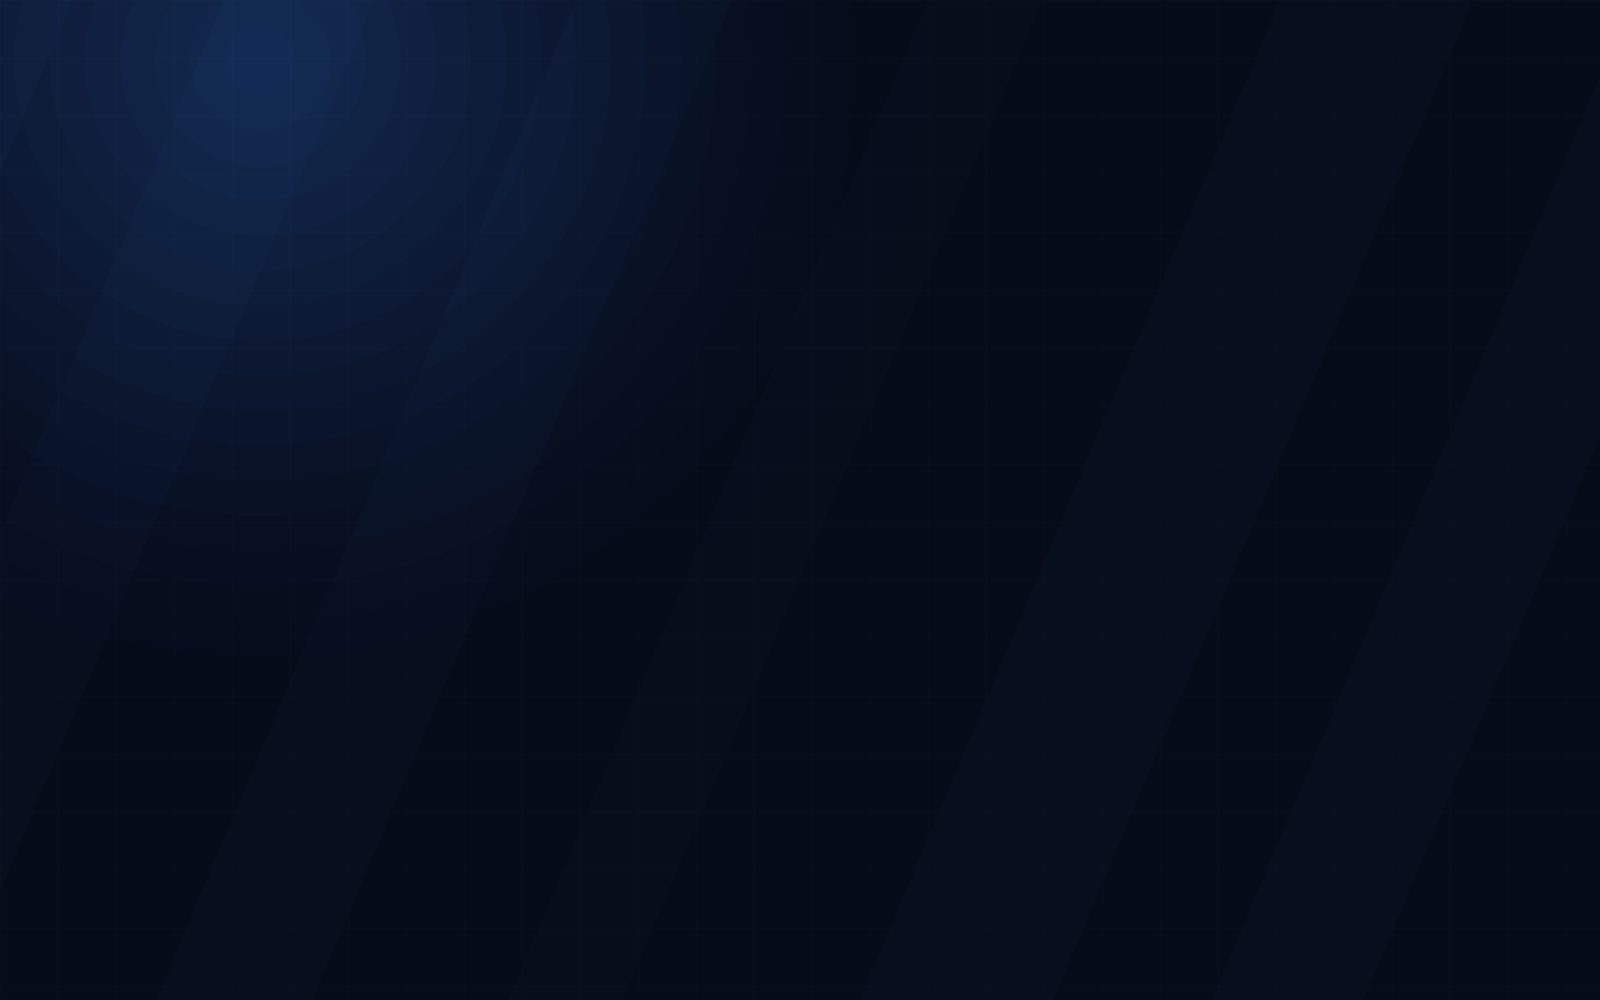
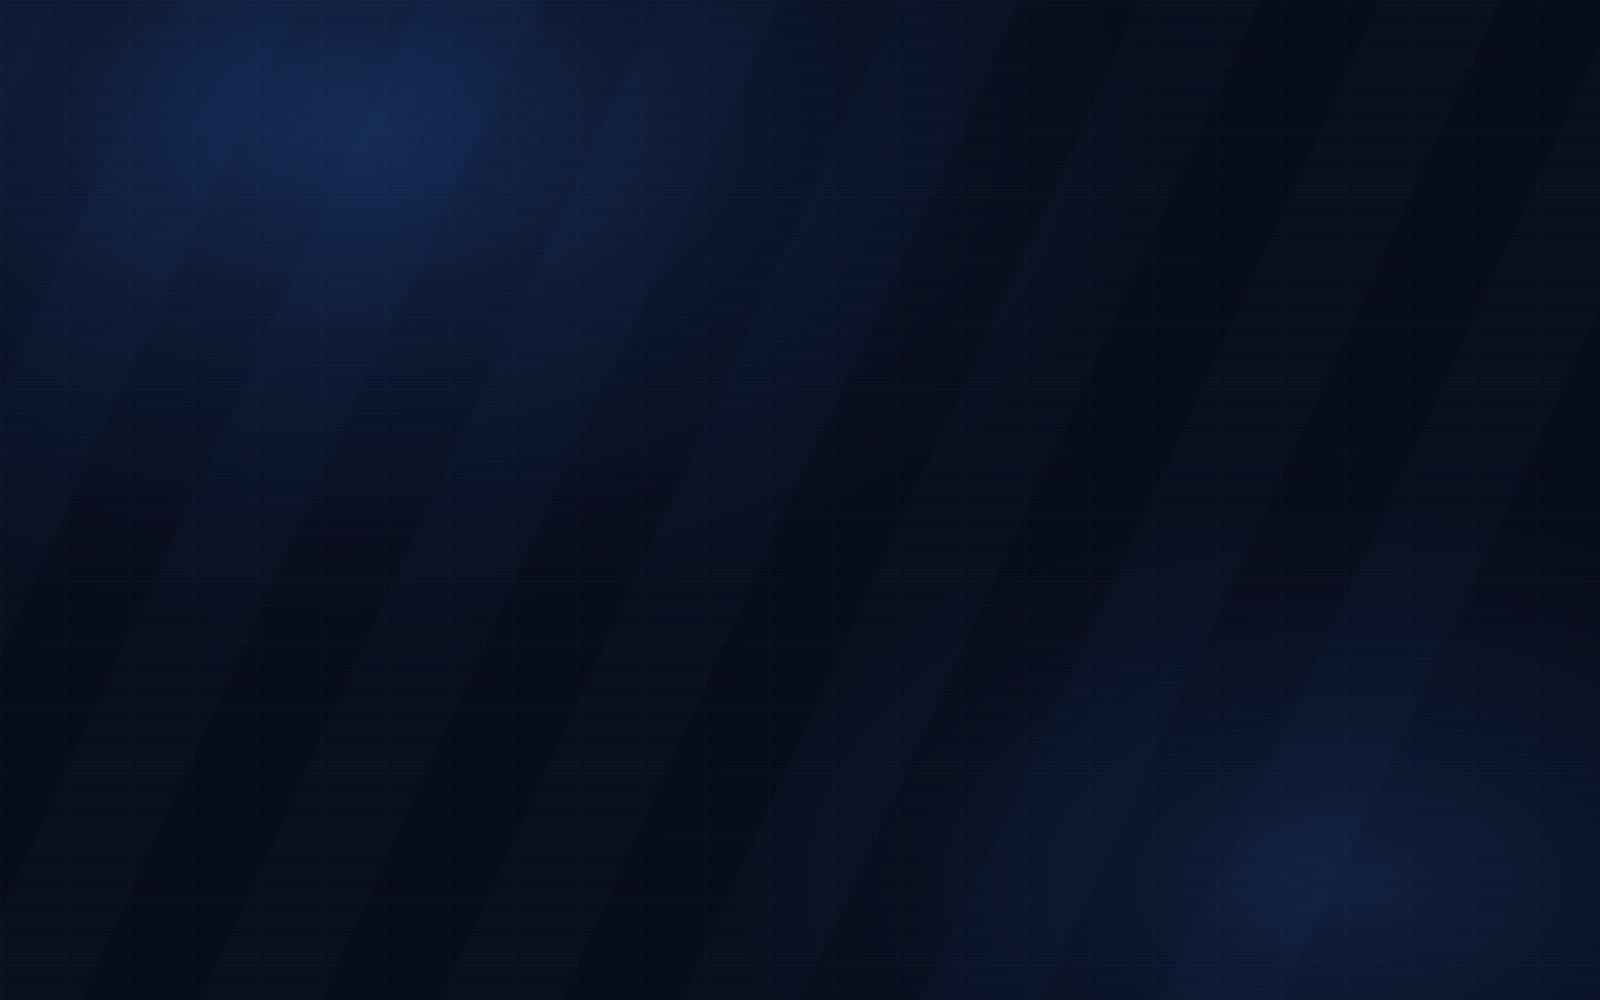
Add generated per-sport backgrounds and Ashford demo school crest

Changed region(s): [[0.7188, 0.713, 0.9688, 1.0]]

diff --git a/lib/sports.ts b/lib/sports.ts
@@ -49,43 +49,43 @@ export interface SportConfig {
 export const SPORTS: Record<string, SportConfig> = {
   hockey: {
     label: 'Hockey', structure: 'team', season: 'winter', color: '#38bdf8', icon: '🏑',
-    portal: { heroImage:'/bg-hero-1.jpg', headline:'HOCKEY', description:'Fixtures, training updates, programmes and department notices — all in one place.' },
+    portal: { heroImage:'/sports/hockey.jpg', headline:'HOCKEY', description:'Fixtures, training updates, programmes and department notices — all in one place.' },
     terminology: { group:'Age Group', unit:'Team', fixture:'Fixture', result:'Result', athlete:'Player', score:'Score', session:'Training' },
     features: { teams:true, fixtures:true, results:true, programs:true, attendance:true, testing:true, playerSpotlight:true, pbTracking:false, eventEntries:false, crews:false, coachNotes:true },
   },
   rugby: {
     label: 'Rugby', structure: 'team', season: 'winter', color: '#f87171', icon: '🏉',
-    portal: { heroImage:'/bg-hero-2.jpg', headline:'RUGBY', description:'Fixtures, team updates, programmes and department notices — all in one place.' },
+    portal: { heroImage:'/sports/rugby.jpg', headline:'RUGBY', description:'Fixtures, team updates, programmes and department notices — all in one place.' },
     terminology: { group:'Age Group', unit:'Team', fixture:'Fixture', result:'Result', athlete:'Player', score:'Score', session:'Training' },
     features: { teams:true, fixtures:true, results:true, programs:true, attendance:true, testing:true, playerSpotlight:true, pbTracking:false, eventEntries:false, crews:false, coachNotes:true },
   },
   cricket: {
     label: 'Cricket', structure: 'team', season: 'summer', color: '#fbbf24', icon: '🏏',
-    portal: { heroImage:'/bg-hero-3.jpg', headline:'CRICKET', description:'Fixtures, match updates, programmes and department notices — all in one place.' },
+    portal: { heroImage:'/sports/cricket.jpg', headline:'CRICKET', description:'Fixtures, match updates, programmes and department notices — all in one place.' },
     terminology: { group:'Age Group', unit:'Team', fixture:'Match', result:'Scorecard', athlete:'Player', score:'Score', session:'Practice' },
     features: { teams:true, fixtures:true, results:true, programs:true, attendance:true, testing:false, playerSpotlight:true, pbTracking:false, eventEntries:false, crews:false, coachNotes:true },
   },
   swimming: {
     label: 'Swimming', structure: 'event', season: 'summer', color: '#818cf8', icon: '🏊',
-    portal: { heroImage:'/bg-hero-4.jpg', headline:'SWIMMING', description:'Galas, squad updates, programmes and department notices — all in one place.' },
+    portal: { heroImage:'/sports/swimming.jpg', headline:'SWIMMING', description:'Galas, squad updates, programmes and department notices — all in one place.' },
     terminology: { group:'Squad', unit:'Squad', fixture:'Gala', result:'Times', athlete:'Swimmer', score:'PB', session:'Session' },
     features: { teams:false, fixtures:true, results:true, programs:true, attendance:true, testing:false, playerSpotlight:true, pbTracking:true, eventEntries:true, crews:false, coachNotes:true },
   },
   rowing: {
     label: 'Rowing', structure: 'crew', season: 'summer', color: '#34d399', icon: '🚣',
-    portal: { heroImage:'/bg-hero-3.jpg', headline:'ROWING', description:'Regattas, crew updates, programmes and department notices — all in one place.' },
+    portal: { heroImage:'/sports/rowing.jpg', headline:'ROWING', description:'Regattas, crew updates, programmes and department notices — all in one place.' },
     terminology: { group:'Boat Class', unit:'Crew', fixture:'Regatta', result:'Crew Result', athlete:'Rower', score:'Time', session:'Water Session' },
     features: { teams:false, fixtures:true, results:true, programs:true, attendance:true, testing:true, playerSpotlight:true, pbTracking:true, eventEntries:false, crews:true, coachNotes:true },
   },
   waterpolo: {
     label: 'Water Polo', structure: 'team', season: 'summer', color: '#06b6d4', icon: '🤽',
-    portal: { heroImage:'/bg-hero-4.jpg', headline:'WATER POLO', description:'Fixtures, team updates, programmes and department notices — all in one place.' },
+    portal: { heroImage:'/sports/waterpolo.jpg', headline:'WATER POLO', description:'Fixtures, team updates, programmes and department notices — all in one place.' },
     terminology: { group:'Age Group', unit:'Team', fixture:'Fixture', result:'Result', athlete:'Player', score:'Score', session:'Training' },
     features: { teams:true, fixtures:true, results:true, programs:true, attendance:true, testing:false, playerSpotlight:true, pbTracking:false, eventEntries:false, crews:false, coachNotes:true },
   },
   football: {
     label: 'Football', structure: 'team', season: 'short', color: '#a3e635', icon: '⚽',
-    portal: { heroImage:'/bg-hero-2.jpg', headline:'FOOTBALL', description:'Fixtures, match updates, programmes and department notices — all in one place.' },
+    portal: { heroImage:'/sports/football.jpg', headline:'FOOTBALL', description:'Fixtures, match updates, programmes and department notices — all in one place.' },
     terminology: { group:'Age Group', unit:'Team', fixture:'Match', result:'Result', athlete:'Player', score:'Score', session:'Training' },
     features: { teams:true, fixtures:true, results:true, programs:true, attendance:true, testing:false, playerSpotlight:true, pbTracking:false, eventEntries:false, crews:false, coachNotes:true },
   },

diff --git a/make_sport_bgs.py b/make_sport_bgs.py
@@ -1,0 +1,238 @@
+"""
+Generates per-sport hero backgrounds for the Altus portal.
+
+Each is a stylised overhead view of that sport's actual playing surface —
+real pitch markings, drawn in the sport's own brand colour, over a dark
+base so white text and glass cards stay legible on top.
+
+No photography, so no licensing or model-release exposure.
+"""
+from PIL import Image, ImageDraw, ImageFilter
+import math
+import os
+
+W, H = 1600, 1000
+
+
+def base_canvas(bg, accent, seed=0):
+    """Dark base + soft directional glow in the sport's colour.
+
+    Computed per-pixel at low resolution then upscaled — drawing concentric
+    ellipses produced visible banding rings.
+    """
+    small_w, small_h = 200, 125
+    glow = Image.new('RGB', (small_w, small_h))
+    px = glow.load()
+    sources = [(0.21, 0.12, 0.62, 0.34), (0.84, 0.88, 0.50, 0.22)]
+    for y in range(small_h):
+        for x in range(small_w):
+            r = g = b = 0.0
+            for sx, sy, rad, strength in sources:
+                dx = (x / small_w - sx)
+                dy = (y / small_h - sy) * (small_h / small_w) * (W / H)
+                dist = math.sqrt(dx * dx + dy * dy) / rad
+                if dist < 1:
+                    f = (1 - dist) ** 2 * strength
+                    r += accent[0] * f
+                    g += accent[1] * f
+                    b += accent[2] * f
+            px[x, y] = (
+                min(255, int(bg[0] + r)),
+                min(255, int(bg[1] + g)),
+                min(255, int(bg[2] + b)),
+            )
+    return glow.resize((W, H), Image.BICUBIC).filter(ImageFilter.GaussianBlur(12))
+
+
+def finish(img, accent, vignette=200):
+    """Grain, blur and vignette so foreground content always has contrast."""
+    d = ImageDraw.Draw(img, 'RGBA')
+    for y in range(0, H, 3):
+        d.line([(0, y), (W, y)], fill=(255, 255, 255, 4))
+    img = img.filter(ImageFilter.GaussianBlur(0.6))
+
+    v = Image.new('L', (W, H), 0)
+    vd = ImageDraw.Draw(v)
+    vd.ellipse([-W // 4, -H // 4, W + W // 4, H + H // 4], fill=vignette)
+    v = v.filter(ImageFilter.GaussianBlur(170))
+    dark = Image.new('RGB', (W, H), (3, 5, 12))
+    return Image.composite(img, dark, v)
+
+
+def hex_rgb(h):
+    h = h.lstrip('#')
+    return tuple(int(h[i:i+2], 16) for i in (0, 2, 4))
+
+
+# ── Hockey: astro pitch — 23m lines, shooting circles (D) ────────────────────
+def hockey(accent):
+    img = base_canvas((6, 16, 30), accent)
+    d = ImageDraw.Draw(img, 'RGBA')
+    L, R, T, B = 90, W - 90, 150, H - 150
+    d.rectangle([L, T, R, B], outline=accent + (70,), width=3)
+    d.line([(W // 2, T), (W // 2, B)], fill=accent + (45,), width=2)          # halfway
+    for x in (L + 300, R - 300):                                              # 23m lines
+        d.line([(x, T), (x, B)], fill=accent + (38,), width=2)
+    for side in (0, 1):                                                        # shooting circles
+        cx = L if side == 0 else R
+        for i in range(0, 181, 3):
+            a = math.radians(i - 90 if side == 0 else i + 90)
+            d.ellipse([cx + 260 * math.cos(a) - 2, (T + B) // 2 + 260 * math.sin(a) - 2,
+                       cx + 260 * math.cos(a) + 2, (T + B) // 2 + 260 * math.sin(a) + 2],
+                      fill=accent + (55,))
+        d.rectangle([cx - 8 if side else cx - 8, (T + B) // 2 - 60,
+                     cx + 8, (T + B) // 2 + 60], fill=accent + (90,))          # goal
+    return finish(img, accent)
+
+
+# ── Rugby: pitch — try line, 22m, halfway, dead-ball, posts ──────────────────
+def rugby(accent):
+    img = base_canvas((26, 8, 10), accent)
+    d = ImageDraw.Draw(img, 'RGBA')
+    L, R, T, B = 80, W - 80, 140, H - 140
+    d.rectangle([L, T, R, B], outline=accent + (65,), width=3)
+    d.line([(W // 2, T), (W // 2, B)], fill=accent + (50,), width=3)          # halfway
+    for x in (L + 180, R - 180):                                              # try lines
+        d.line([(x, T), (x, B)], fill=accent + (58,), width=3)
+    for x in (L + 400, R - 400):                                              # 22m
+        d.line([(x, T), (x, B)], fill=accent + (34,), width=2)
+    for x in (L + 290, R - 290):                                              # posts
+        d.line([(x, (T + B) // 2 - 90), (x, (T + B) // 2 + 90)], fill=accent + (85,), width=5)
+        d.line([(x - 26, (T + B) // 2 - 40), (x + 26, (T + B) // 2 - 40)], fill=accent + (85,), width=5)
+    for x in range(L + 60, R - 40, 70):                                       # 5m dashes
+        d.line([(x, T + 60), (x + 22, T + 60)], fill=accent + (26,), width=2)
+        d.line([(x, B - 60), (x + 22, B - 60)], fill=accent + (26,), width=2)
+    return finish(img, accent)
+
+
+# ── Cricket: oval boundary, pitch strip, crease, inner ring ──────────────────
+def cricket(accent):
+    img = base_canvas((28, 20, 4), accent)
+    d = ImageDraw.Draw(img, 'RGBA')
+    cx, cy = W // 2, H // 2
+    d.ellipse([cx - 640, cy - 400, cx + 640, cy + 400], outline=accent + (62,), width=3)
+    d.ellipse([cx - 360, cy - 225, cx + 360, cy + 225], outline=accent + (30,), width=2)
+    d.rectangle([cx - 26, cy - 165, cx + 26, cy + 165], fill=accent + (34,),
+                outline=accent + (72,), width=2)
+    for y in (cy - 150, cy + 150):                                            # creases
+        d.line([(cx - 62, y), (cx + 62, y)], fill=accent + (88,), width=3)
+    for y, s in ((cy - 158, 1), (cy + 158, -1)):                              # stumps
+        for off in (-9, 0, 9):
+            d.line([(cx + off, y), (cx + off, y + 16 * s)], fill=accent + (95,), width=2)
+    return finish(img, accent)
+
+
+# ── Swimming: lane ropes and pool markings ──────────────────────────────────
+def swimming(accent):
+    img = base_canvas((10, 12, 34), accent)
+    d = ImageDraw.Draw(img, 'RGBA')
+    lanes = 8
+    lane_h = (H - 240) / lanes
+    for i in range(lanes + 1):                                                # lane dividers
+        y = 120 + i * lane_h
+        d.line([(70, y), (W - 70, y)], fill=accent + (52,), width=3)
+    for i in range(lanes):                                                    # lane floor lines
+        y = 120 + i * lane_h + lane_h / 2
+        d.line([(180, y), (W - 180, y)], fill=accent + (30,), width=8)
+        d.line([(180, y), (240, y)], fill=accent + (60,), width=8)            # T at each end
+        d.line([(W - 240, y), (W - 180, y)], fill=accent + (60,), width=8)
+    d.line([(70, 120), (70, H - 120)], fill=accent + (75,), width=4)
+    d.line([(W - 70, 120), (W - 70, H - 120)], fill=accent + (75,), width=4)
+    return finish(img, accent)
+
+
+# ── Rowing: water lanes with wake ripples ───────────────────────────────────
+def rowing(accent):
+    img = base_canvas((4, 26, 20), accent)
+    d = ImageDraw.Draw(img, 'RGBA')
+    for i in range(6):                                                        # buoy lanes
+        y = 150 + i * ((H - 300) / 5)
+        for x in range(90, W - 60, 46):
+            d.ellipse([x - 5, y - 5, x + 5, y + 5], fill=accent + (48,))
+    for i in range(70):                                                       # ripples
+        y = 130 + (i * 12) % (H - 260)
+        x0 = (i * 137) % (W - 300)
+        d.arc([x0, y - 7, x0 + 210, y + 7], 0, 180, fill=accent + (20,), width=2)
+    return finish(img, accent)
+
+
+# ── Water polo: pool with 2m / 5m / 6m markers ──────────────────────────────
+def waterpolo(accent):
+    img = base_canvas((4, 22, 30), accent)
+    d = ImageDraw.Draw(img, 'RGBA')
+    L, R, T, B = 90, W - 90, 150, H - 150
+    d.rectangle([L, T, R, B], outline=accent + (66,), width=3)
+    d.line([(W // 2, T), (W // 2, B)], fill=accent + (44,), width=2)
+    for x, alpha in ((L + 110, 70), (L + 260, 46), (R - 110, 70), (R - 260, 46)):
+        d.line([(x, T), (x, B)], fill=accent + (alpha,), width=3)
+    for cx in (L, R):                                                          # goals
+        d.rectangle([cx - 6, (T + B) // 2 - 75, cx + 6, (T + B) // 2 + 75], fill=accent + (92,))
+    for i in range(45):                                                        # surface ripples
+        y = 165 + (i * 17) % (B - T - 30)
+        x0 = (i * 191) % (W - 260)
+        d.arc([x0, y - 6, x0 + 175, y + 6], 0, 180, fill=accent + (16,), width=2)
+    return finish(img, accent)
+
+
+# ── Football: pitch — centre circle, penalty areas, goals ───────────────────
+def football(accent):
+    img = base_canvas((10, 22, 6), accent)
+    d = ImageDraw.Draw(img, 'RGBA')
+    L, R, T, B = 90, W - 90, 150, H - 150
+    cy = (T + B) // 2
+    d.rectangle([L, T, R, B], outline=accent + (66,), width=3)
+    d.line([(W // 2, T), (W // 2, B)], fill=accent + (46,), width=2)
+    d.ellipse([W // 2 - 120, cy - 120, W // 2 + 120, cy + 120], outline=accent + (52,), width=3)
+    d.ellipse([W // 2 - 6, cy - 6, W // 2 + 6, cy + 6], fill=accent + (80,))
+    for side in (0, 1):
+        x = L if side == 0 else R
+        sgn = 1 if side == 0 else -1
+        px0, px1 = sorted([x, x + sgn * 210])
+        d.rectangle([px0, cy - 200, px1, cy + 200], outline=accent + (50,), width=3)  # penalty area
+        sx0, sx1 = sorted([x, x + sgn * 80])
+        d.rectangle([sx0, cy - 100, sx1, cy + 100], outline=accent + (44,), width=2)  # six-yard
+        gx0, gx1 = sorted([x, x + sgn * 10])
+        d.rectangle([gx0, cy - 62, gx1, cy + 62], fill=accent + (88,))                # goal
+    return finish(img, accent)
+
+
+# ── Neutral: for login pages and generic screens ────────────────────────────
+def neutral(accent, bg):
+    img = base_canvas(bg, accent)
+    d = ImageDraw.Draw(img, 'RGBA')
+    for i in range(9):                                                         # motion sweeps
+        x = -300 + i * 240
+        d.polygon([(x, 0), (x + 120, 0), (x + 120 - 460, H), (x - 460, H)],
+                  fill=accent + (10,))
+    for gx in range(0, W, 64):
+        d.line([(gx, 0), (gx, H)], fill=(255, 255, 255, 5))
+    for gy in range(0, H, 64):
+        d.line([(0, gy), (W, gy)], fill=(255, 255, 255, 5))
+    return finish(img, accent, vignette=185)
+
+
+SPORTS = {
+    'hockey':    (hockey,    '#38bdf8'),
+    'rugby':     (rugby,     '#f87171'),
+    'cricket':   (cricket,   '#fbbf24'),
+    'swimming':  (swimming,  '#818cf8'),
+    'rowing':    (rowing,    '#34d399'),
+    'waterpolo': (waterpolo, '#06b6d4'),
+    'football':  (football,  '#a3e635'),
+}
+
+import os
+os.makedirs('public/sports', exist_ok=True)
+
+for name, (fn, colour) in SPORTS.items():
+    img = fn(hex_rgb(colour))
+    path = f'public/sports/{name}.jpg'
+    img.save(path, quality=84, optimize=True)
+    print(f'{path}  ({os.path.getsize(path)//1024}KB)')
+
+for i, (colour, bg) in enumerate([('#3b82f6', (8, 14, 30)), ('#6366f1', (10, 12, 26)),
+                                  ('#14b8a6', (6, 18, 24)), ('#8b5cf6', (14, 10, 26))], 1):
+    img = neutral(hex_rgb(colour), bg)
+    path = f'public/bg-hero-{i}.jpg'
+    img.save(path, quality=84, optimize=True)
+    print(f'{path}  ({os.path.getsize(path)//1024}KB)')

diff --git a/make_ashford_logo.py b/make_ashford_logo.py
@@ -1,0 +1,60 @@
+"""Crest for the Ashford Grammar demo school.
+
+Deliberately different in both shape and colour from Ridgemont's (navy/gold
+shield): Ashford is a rounded green/gold crest with a chevron and book motif.
+Having visually distinct crests makes a branding leak between schools obvious
+at a glance during demos and isolation testing.
+"""
+from PIL import Image, ImageDraw, ImageFont, ImageFilter
+
+S = 900
+img = Image.new('RGBA', (S, S), (0, 0, 0, 0))
+d = ImageDraw.Draw(img)
+
+GREEN = (15, 118, 110, 255)     # matches schools.primary_color for Ashford
+GOLD = (234, 179, 8, 255)
+CREAM = (245, 245, 240, 255)
+DARK = (6, 45, 42, 255)
+
+cx = S // 2
+
+# Crest outline: rounded shoulders tapering to a point
+crest = [
+    (170, 120), (730, 120),
+    (730, 470),
+    (700, 570), (620, 660), (cx, 780),
+    (280, 660), (200, 570), (170, 470),
+]
+d.polygon(crest, fill=DARK)
+d.line(crest + [crest[0]], fill=GOLD, width=12, joint='curve')
+
+# Inner keyline
+inner = [(x + (18 if x < cx else -18 if x > cx else 0),
+          y + (18 if y < 300 else -14 if y > 600 else 0)) for x, y in crest]
+d.line(inner + [inner[0]], fill=GREEN, width=5, joint='curve')
+
+# Upper band
+d.rectangle([190, 140, 710, 265], fill=GREEN)
+d.line([(190, 265), (710, 265)], fill=GOLD, width=6)
+
+# Chevron
+d.polygon([(cx - 190, 430), (cx, 320), (cx + 190, 430),
+           (cx + 190, 490), (cx, 380), (cx - 190, 490)], fill=GOLD)
+
+# Open book motif beneath the chevron
+d.polygon([(cx - 150, 560), (cx - 10, 530), (cx - 10, 640), (cx - 150, 665)], fill=CREAM)
+d.polygon([(cx + 150, 560), (cx + 10, 530), (cx + 10, 640), (cx + 150, 665)], fill=CREAM)
+d.line([(cx, 532), (cx, 640)], fill=GREEN, width=5)
+
+# "AG" in the upper band
+try:
+    font = ImageFont.truetype('/usr/share/fonts/truetype/dejavu/DejaVuSans-Bold.ttf', 96)
+except Exception:
+    font = ImageFont.load_default()
+text = 'AG'
+bbox = d.textbbox((0, 0), text, font=font)
+tw, th = bbox[2] - bbox[0], bbox[3] - bbox[1]
+d.text((cx - tw / 2 - bbox[0], 200 - th / 2 - bbox[1]), text, font=font, fill=CREAM)
+
+img.save('public/schools/ashford-logo.png')
+print('written public/schools/ashford-logo.png')
